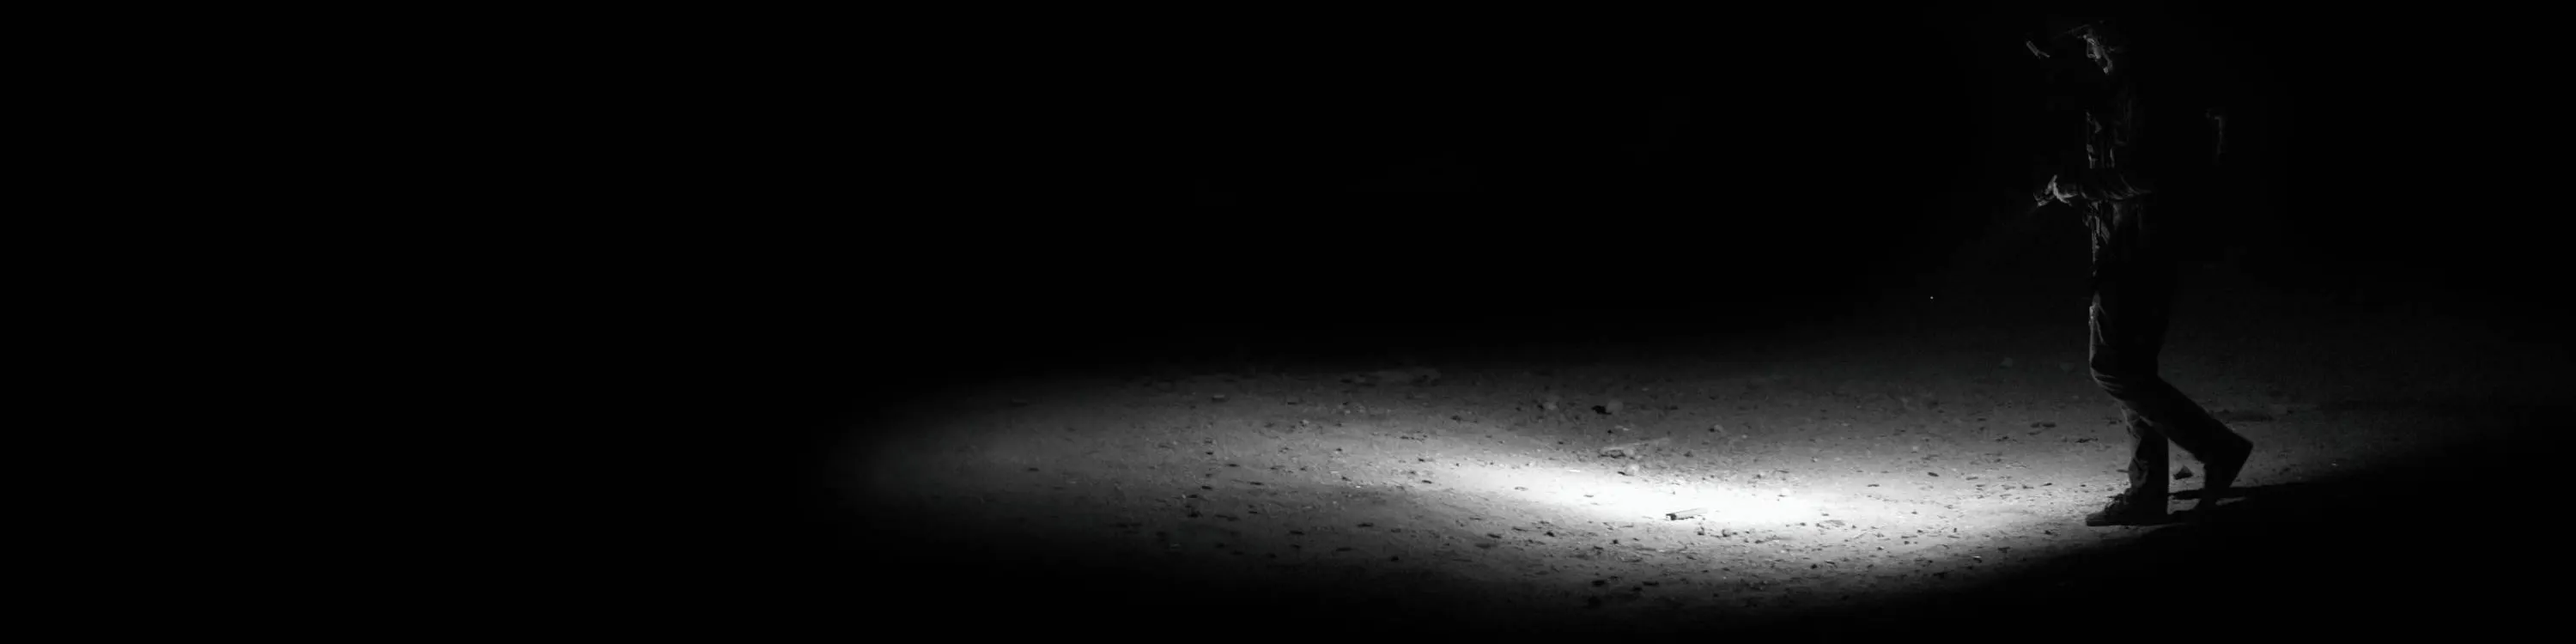
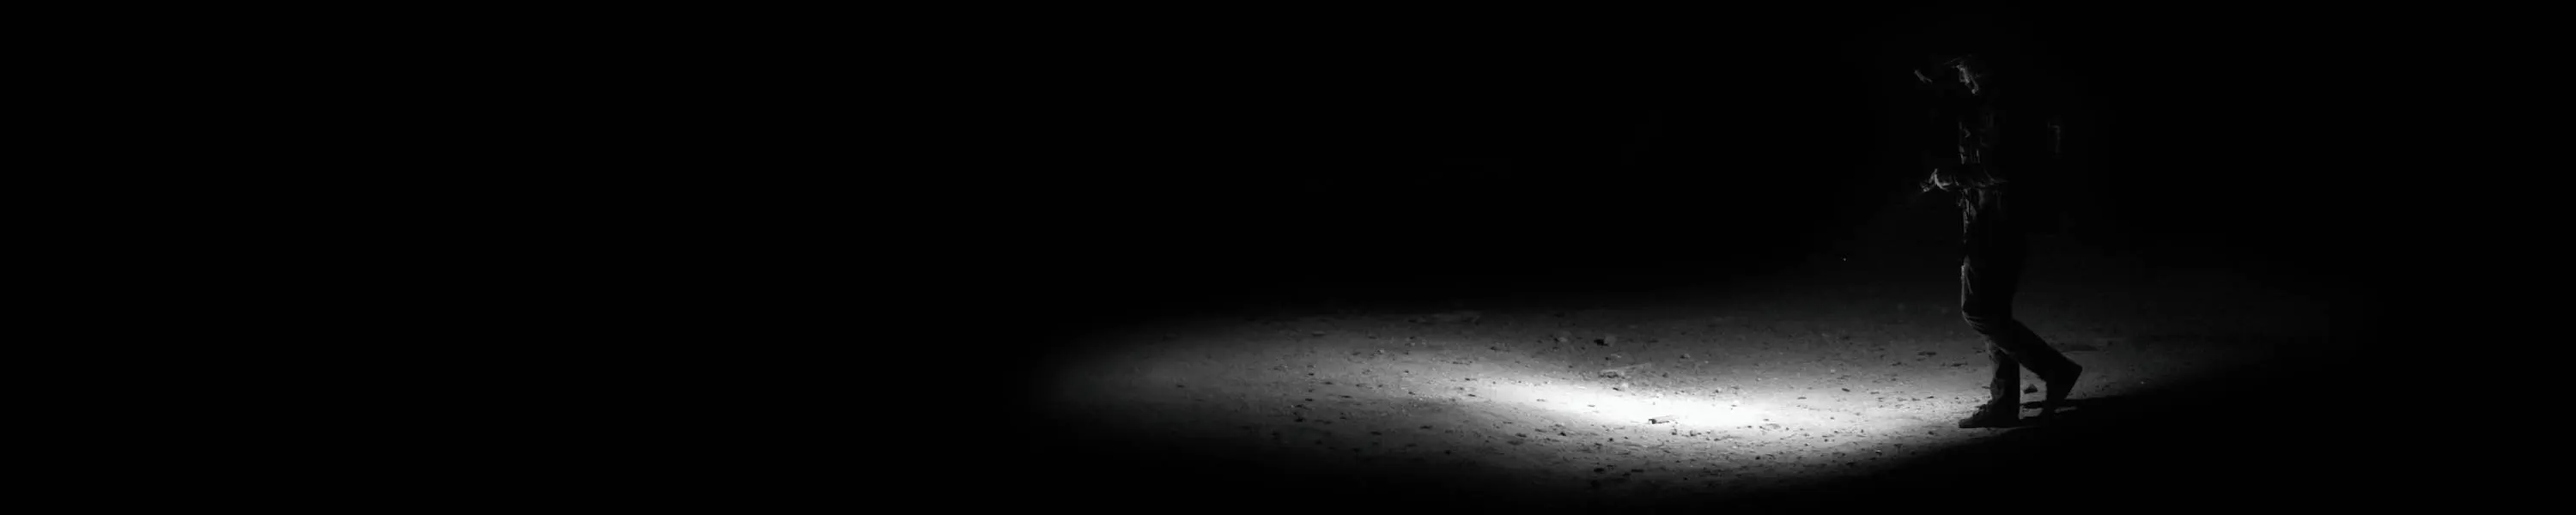
Use the 5:1 desktop hero master
Hero_Desktop.jpg is now 3000x600, matching the hero box above 1320px, so
it fills edge to edge instead of being letterboxed. The 4:1 interim crop
is removed and nothing is scaled down any more: at 1600 the image paints
1585x317 with zero black bars, against 1268x317 with 159px bars before —
the figure is back to full scale.

The file arrived as hero_desktop.jpg but git tracks the path capitalised.
macOS cannot distinguish the two and Cloudflare's Linux build can, so the
working copy is renamed to Hero_Desktop.jpg to match what is committed.
Referencing the lowercase name would have built here and 404'd in
production.

object-contain stays rather than switching to cover. Where the box is
exactly 5:1 the two are identical, but below 1320px the min-h floor makes
the box taller than 5:1, and there cover would crop the sides — losing
the figure at the right edge — while contain letterboxes 31px of black
top and bottom instead.

diff --git a/app/page.tsx b/app/page.tsx
@@ -51,7 +51,7 @@ export default async function HomePage() {
             sizes="100vw"
           />
           <img
-            src="/Branding/Hero_Desktop_4x1.jpg"
+            src="/Branding/Hero_Desktop.jpg"
             alt="Terra Fieldworks"
             fetchPriority="high"
             className="absolute inset-0 h-full w-full object-cover object-bottom md:object-contain"
